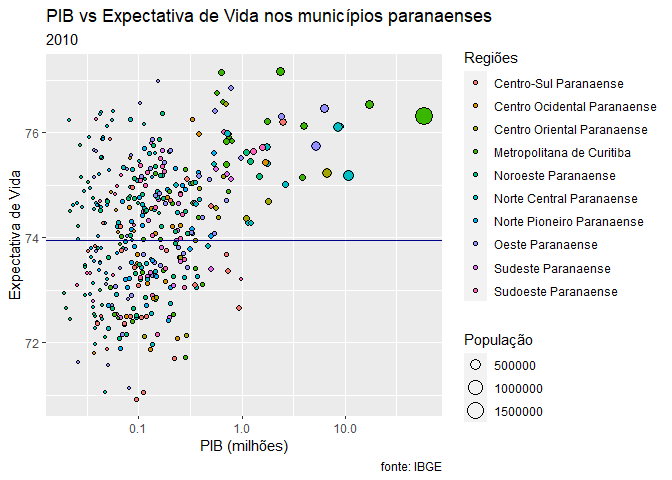
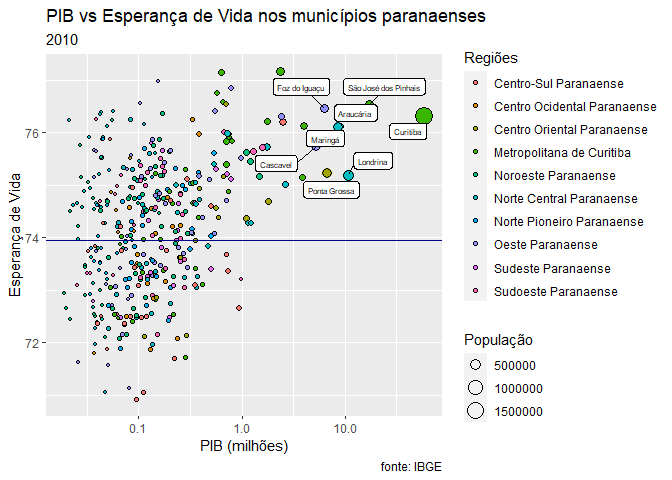
facet_wrap

diff --git a/README.md b/README.md
@@ -12,7 +12,7 @@ apresentar os diversos temas cobertos pelo livro.
 Logo no início nos deparamos com uma ótima introdução sobre tipos de
 gráficos e com o belo gráfico da
 [figura 2.1](https://moderndive.com/2-viz.html#fig:gapminder) que mostra
-a relação entre PIB e expectativa de vida entre países.
+a relação entre PIB e esperança de vida entre países.
 
 Este exercício se propõe a repetir o mesmo gráfico, porém para os
 municípios do Paraná, usando as regiões para o código de cores, que
@@ -31,7 +31,7 @@ gráfico. São eles:
 
   - População dos municípios;
 
-  - Expectativa de vida nos municípios.
+  - Esperança de vida nos municípios.
 
 ### PIB dos Municípios (IBGE)
 
@@ -157,7 +157,7 @@ pop <- pop %>%
 
 Esta base também apresenta 399 municípios para o Paraná.
 
-### Expectativa de vida nos municípios do PR
+### Esperança de vida nos municípios do PR
 
 Esta foi a informação que tive mais dificuldade para encontrar. No
 final, acabei optanto pelos dados do site
@@ -304,7 +304,7 @@ dados_pr %>% vis_miss()
 
 Vamos fazer um diagram de dispersão semelhante ao da figura 2.1 do livro
 ModernDive, porém, neste caso, estamos cruzando o PIB dos municípios
-paranenses com a expectativa de vida, os pontos serão dimensionados pela
+paranenses com a esperança de vida, os pontos serão dimensionados pela
 população e coloridos conforme a região (para isto precisamos
 transformar os dados de região em fatores).
 
@@ -328,8 +328,8 @@ pr_plot
 
 Não ficou bom. Vamos mudar a escala de x para logarítmica para melhor
 visualização dos dados. Vamos também ajustar os nomes dos eixos e das
-legendas. E, vamos incluir uma linha com a média de expectativa de vida
-do Brasil.
+legendas. E, vamos incluir uma linha com a média de esperança de vida do
+Brasil.
 
 ``` r
  # desabilita a notação científica
@@ -339,22 +339,29 @@ pr_plot <-
                             y = esp_vida, 
                             size = tot, 
                             fill = nome_mesor), shape = 21) +
-  labs(title = "PIB vs Expectativa de Vida nos municípios paranaenses",
+  labs(title = "PIB vs Esperança de Vida nos municípios paranaenses",
        subtitle = "2010",
        caption = "fonte: IBGE",
        x = "PIB (milhões)",
-       y = "Expectativa de Vida",
+       y = "Esperança de Vida",
        fill = "Regiões",
        size = "População") +
   scale_x_continuous(trans = 'log10') +
-  geom_hline(data = ref_br, aes(yintercept = esp_vida), color = "darkblue")
+  ggrepel::geom_label_repel(data = (dados_pr %>% filter(!is.na(esp_vida), pib > 5000000)), mapping = aes(x = pib/1000000, 
+                            y = esp_vida, 
+                            label = nome_mun), 
+                            size = 2,
+                            max.overlaps = Inf) +
+  geom_hline(data = ref_br, aes(yintercept = esp_vida), color = "darkblue") 
+#+
+ # geom_label(aes(x = pib, y = 73, label = "Esp. Vida média - Brasil"), size = 2)
 
 pr_plot
 ```
 
 ![](readme_files/figure-gfm/scatter_plot_2-1.png)<!-- -->
 
-Alternativamente podemos trocar a expectativa de vida pelo Índice de
+Alternativamente podemos trocar a esperança de vida pelo Índice de
 Desenvolvimento Humano de longevidade, e o PIB por PIB per capita.
 
 ``` r
@@ -379,12 +386,75 @@ pr_plot <-
                             mapping = aes( x = pib_percapita, 
                                            y = idhm_longev, 
                                            label = nome_mun),
-                            max.overlaps = Inf)
-
+                            max.overlaps = Inf) 
 pr_plot
 ```
 
 ![](readme_files/figure-gfm/scatter_plot_3-1.png)<!-- -->
+
+Alguns municípios aparentam ter um PIB per capita acima da média
+estadual, em função de atividades econômicas específicas de suas
+regiões. Para São José dos Pinhais e Araucária a indústria de
+transformação (automotiva e ciderurgia, respectivamente), e para Saudade
+do Iguaçu, energia elétrica.
+
+### Facets
+
+Uma visão de facetas ajuda a separar as regiões do estado.
+
+``` r
+pr_plot <- 
+  ggplot(data = (dados_pr %>% filter(!is.na(esp_vida)))) +
+  geom_point(mapping = aes(x = pib/1000000, 
+                            y = esp_vida, 
+                            size = tot, 
+                            fill = nome_mesor), shape = 21) +
+  labs(title = "PIB vs Esperança de Vida nos municípios paranaenses",
+       subtitle = "2010",
+       caption = "fonte: IBGE",
+       x = "PIB (milhões)",
+       y = "Esperança de vida",
+       fill = "Regiões",
+       size = "População") +
+  scale_x_continuous(trans = 'log10') +
+  geom_hline(data = ref_br, aes(yintercept = esp_vida), color = "darkblue") 
+
+pr_plot + facet_wrap(~ nome_mesor, ncol = 2)
+```
+
+![](readme_files/figure-gfm/unnamed-chunk-11-1.png)<!-- -->
+
+Outra opção seria agrupar os municípios não por região mas por faixa do
+PIB. Para isso precisamos criar uma nova variável, conforme mostrado a
+seguir.
+
+``` r
+dados_pr <- dados_pr %>% 
+  mutate(grupo_pib = case_when(pib > 1000000 ~ "PIB acima de 1 milhão",
+                               pib <= 1000000 & pib > 100000 ~ "PIB entre 100mil e 1 milhão",
+                               pib <= 100000 ~ "PIB abaixo de 100mil"),
+         grupo_pib = ordered(as.factor(grupo_pib), levels = c("PIB abaixo de 100mil", "PIB entre 100mil e 1 milhão", "PIB acima de 1 milhão")))
+
+pr_plot <- 
+  ggplot(data = (dados_pr %>% filter(!is.na(esp_vida)))) +
+  geom_point(mapping = aes(x = pib/1000000, 
+                            y = esp_vida, 
+                            size = tot, 
+                            fill = nome_mesor), shape = 21) +
+  labs(title = "PIB vs Esperança de Vida nos municípios paranaenses",
+       subtitle = "2010",
+       caption = "fonte: IBGE",
+       x = "PIB (milhões)",
+       y = "Esperança de vida",
+       fill = "PIB",
+       size = "População") +
+  scale_x_continuous(trans = 'log10') +
+  geom_hline(data = ref_br, aes(yintercept = esp_vida), color = "darkblue") 
+
+pr_plot + facet_wrap(~ grupo_pib, ncol = 1)
+```
+
+![](readme_files/figure-gfm/unnamed-chunk-12-1.png)<!-- -->
 
 ## Conclusões
 
